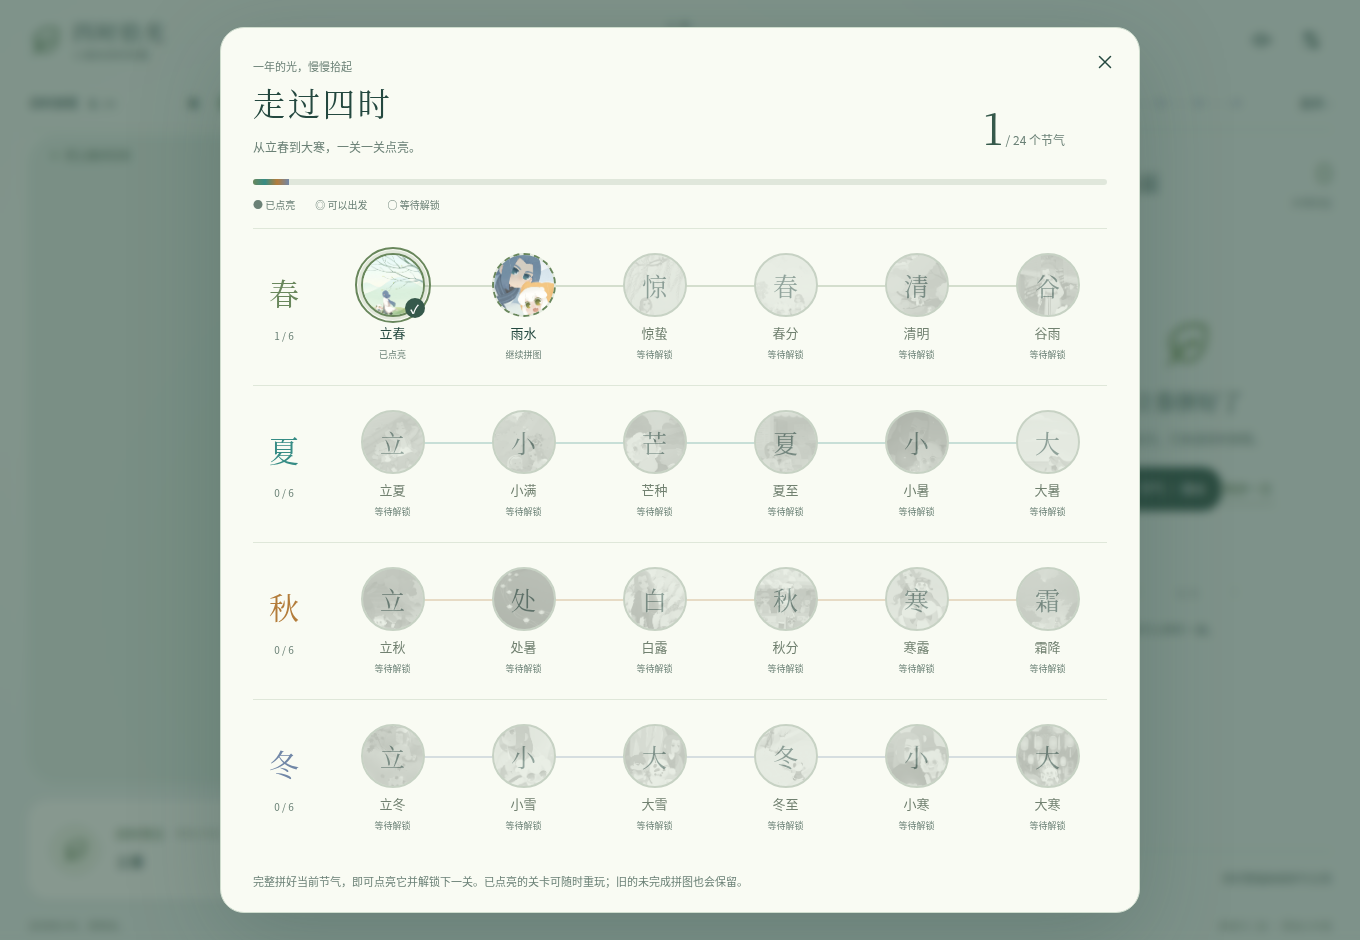
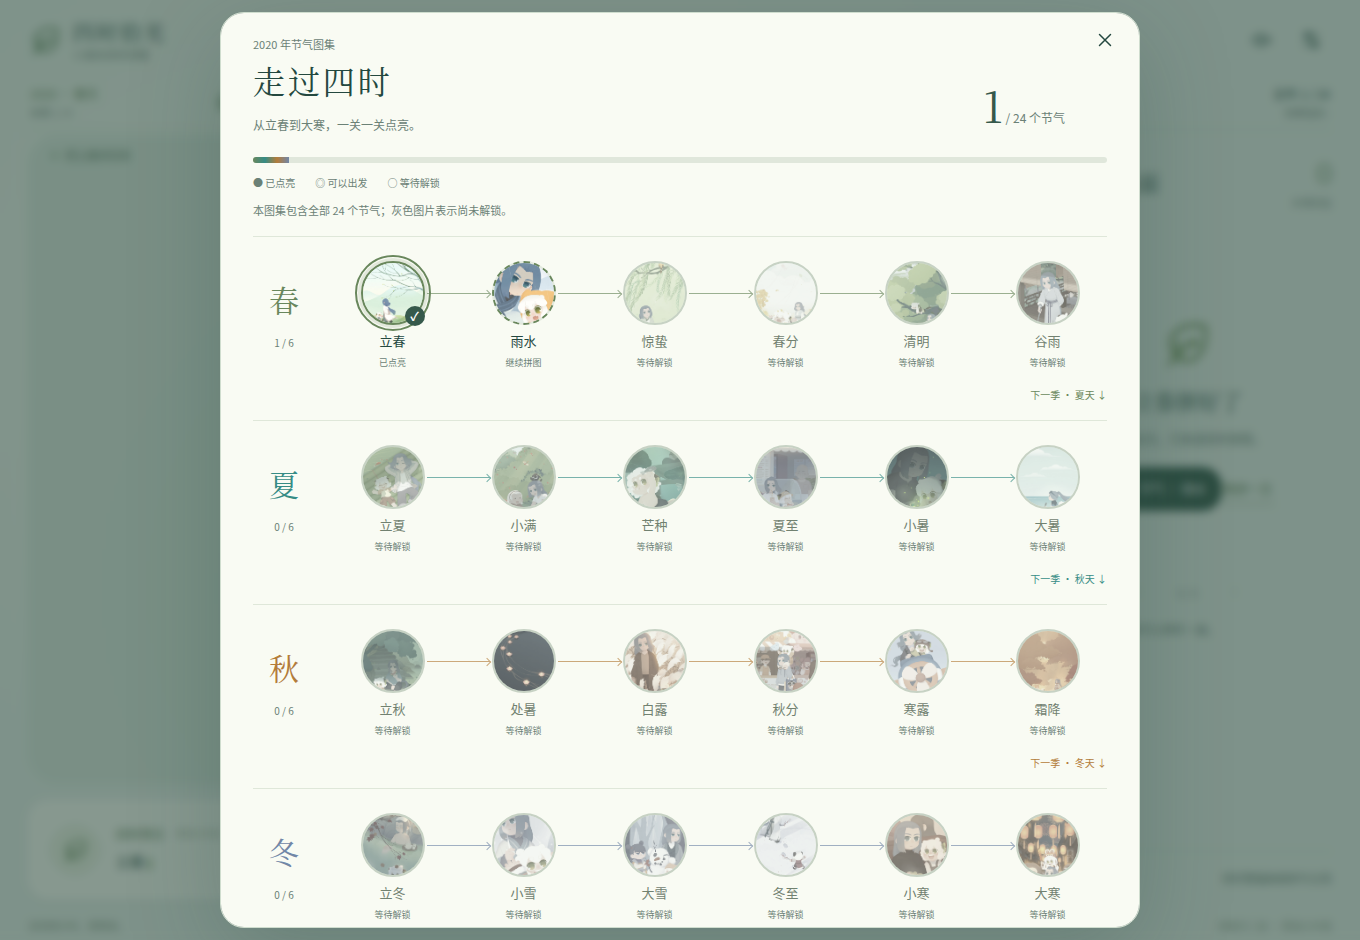
feat: clarify seasonal progress and add mobile journey arrows

diff --git a/web/src/style.css b/web/src/style.css
@@ -1542,20 +1542,17 @@ progress::-moz-progress-bar {
 .year-progress {
   width: calc(100% - 56px); max-width: 1440px; margin: 0 auto;
   min-height: 44px; padding: 4px 2px 8px; border: 0;
-  display: grid; grid-template-columns: 136px minmax(0,1fr) 52px; align-items: center; gap: 22px;
+  display: grid; grid-template-columns: 150px minmax(100px,280px) 1fr; align-items: center; gap: 24px;
   background: transparent; text-align: left; border-bottom: 1px solid #ccdbcc;
 }
-.year-progress-label { font-size: 12px; white-space: nowrap; }
-.year-progress-label strong { margin-left: 8px; font-weight: 600; }
-.year-progress-label small { color: var(--muted); font-weight: 400; }
-.year-segments { display: grid; grid-template-columns: repeat(4,minmax(0,1fr)); gap: 24px; }
-.year-segment { display: flex; align-items: center; gap: 10px; font-size: 11px; }
-.year-dots { flex: 1; display: grid; grid-template-columns: repeat(6,minmax(0,1fr)); align-items: center; position: relative; }
+.year-progress-label { font-size: 12px; color: var(--term-color); white-space: nowrap; }
+.year-progress-label small, .year-open small { display: block; font-size: 10px; color: var(--muted); margin-top: 3px; }
+.year-dots { display: grid; grid-template-columns: repeat(6,minmax(0,1fr)); align-items: center; position: relative; }
 .year-dots::before { content: ""; position: absolute; inset: 50% 6%; height: 1px; background: var(--term-color); opacity: .3; }
 .year-dots i { width: 8px; height: 8px; border: 1px solid var(--term-color); border-radius: 50%; justify-self: center; background: #e6eee7; z-index: 1; }
 .year-dots i.lit { background: var(--term-color); animation: term-light .5s ease-out; }
 .year-dots i.current { outline: 2px solid var(--term-color); outline-offset: 3px; }
-.year-open { justify-self: end; font-size: 12px; white-space: nowrap; }
+.year-open { justify-self: end; font-size: 12px; white-space: nowrap; text-align: right; }
 .choose-season-button {
   display: flex; align-items: center; justify-content: space-between; gap: 12px;
   width: 100%; min-height: 52px; padding: 8px 0; border: 0; border-bottom: 1px solid var(--line);
@@ -1582,19 +1579,23 @@ progress::-moz-progress-bar {
 .journey-progress::-webkit-progress-bar { background: #e0e7db; }
 .journey-progress::-webkit-progress-value { background: linear-gradient(90deg,#69875c,#368c85,#b37c3a,#7187a7); }
 .journey-progress::-moz-progress-bar { background: #69875c; }
+.journey-series-note { font-size: 11px; line-height: 1.7; color: var(--muted); margin: -5px 0 16px; }
 .journey-legend { display: flex; gap: 20px; color: var(--muted); font-size: 10px; margin-bottom: 16px; }
 .season-track { display: grid; grid-template-columns: 62px minmax(0,1fr); gap: 18px; padding: 18px 0; border-top: 1px solid #dfe7d9; }
 .season-track > header { align-self: center; text-align: center; }
 .season-track h3 { font: 30px "Noto Serif CJK SC",serif; color: var(--term-color); margin: 0 0 7px; }
 .season-track header span { font-size: 10px; color: var(--muted); }
-.term-track { display: grid; grid-template-columns: repeat(6,minmax(0,1fr)); gap: 12px; position: relative; }
-.term-track::before { content: ""; position: absolute; height: 2px; left: 7%; right: 7%; top: 38px; background: var(--term-color); opacity: .25; }
-.term-node { display: flex; flex-direction: column; align-items: center; gap: 6px; padding: 6px 0; border: 0; background: transparent; min-width: 0; min-height: 100px; z-index: 1; }
-.term-orb { width: 64px; height: 64px; border: 2px solid #c7d2c4; border-radius: 50%; background: #e2e9dd; position: relative; display: grid; place-items: center; }
-.term-orb > span { font: 25px "Noto Serif CJK SC",serif; opacity: .6; }
+.term-track { --orb: 64px; --track-gap: 12px; display: grid; grid-template-columns: repeat(6,minmax(0,1fr)); gap: var(--track-gap); position: relative; }
+.term-link { position: absolute; left: calc(50% + var(--orb) / 2 + 2px); top: calc(6px + var(--orb) / 2);
+  width: calc(100% + var(--track-gap) - var(--orb) - 4px); border-top: 1px solid var(--term-color); color: var(--term-color); opacity: .65; pointer-events: none; }
+.term-link::after { content: ""; position: absolute; width: 5px; height: 5px; right: 0; top: -3px; border-top: 1px solid; border-right: 1px solid; transform: rotate(45deg); }
+.season-next { grid-column: 2; text-align: right; font-size: 10px; color: var(--term-color); margin-top: -6px; }
+.term-node { display: flex; flex-direction: column; align-items: center; gap: 6px; padding: 6px 0; border: 0; background: transparent; min-width: 0; min-height: 100px; z-index: 1; position: relative; }
+.term-orb { width: var(--orb); height: var(--orb); border: 2px solid #c7d2c4; border-radius: 50%; background: #e2e9dd; position: relative; display: grid; place-items: center; }
+.term-image-missing { font-size: 9px; line-height: 1.5; max-width: 36px; color: #765e40; }
 .term-orb img { position: absolute; inset: 0; width: 100%; height: 100%; object-fit: cover; object-position: 50% 44%; border-radius: 50%; }
 .term-orb img[hidden] { display: none; }
-.term-node.is-locked .term-orb img { filter: grayscale(1); opacity: .24; }
+.term-node.is-locked .term-orb img { filter: saturate(.5); opacity: .65; }
 .term-node.is-locked strong { color: #718170; font-weight: 400; }
 .term-node.is-available .term-orb { border: 2px dashed var(--term-color); }
 .term-node.is-complete .term-orb { border-color: var(--term-color); box-shadow: 0 0 0 3px color-mix(in srgb,var(--term-color) 16%,transparent); }
@@ -1609,12 +1610,10 @@ progress::-moz-progress-bar {
 @keyframes term-light { 0% { box-shadow: 0 0 0 5px #b9cbb366; } 100% { box-shadow: 0 0 0 0 transparent; } }
 @media (max-width: 740px) {
   .game-shell { grid-template-rows: 60px 44px minmax(0,1fr) 22px; }
-  .year-progress { width: calc(100% - 28px); grid-template-columns: 62px minmax(0,1fr) 28px; gap: 8px; padding: 0 0 5px; }
-  .year-progress-label { font-size: 9px; }
-  .year-progress-label strong { margin-left: 0; display: block; font-size: 12px; }
-  .year-segments { gap: 8px; }
-  .year-segment { gap: 4px; font-size: 9px; }
-  .year-dots i { width: 5px; height: 5px; }
+  .year-progress { width: calc(100% - 28px); grid-template-columns: 78px minmax(70px,1fr) 76px; gap: 12px; padding: 0 0 5px; }
+  .year-progress-label { font-size: 10px; }
+  .year-progress-label small, .year-open small { font-size: 9px; }
+  .year-dots i { width: 6px; height: 6px; }
   .year-dots i.current { outline-width: 1px; outline-offset: 2px; }
   .year-open { font-size: 10px; }
   .season-journey { padding: 26px 20px 18px; }
@@ -1623,11 +1622,19 @@ progress::-moz-progress-bar {
   .journey-summary > div > span { font-size: 10px; }
   .journey-count strong { font-size: 32px; }
   .journey-count span { display: block; font-size: 10px; }
-  .season-track { grid-template-columns: 34px minmax(0,1fr); gap: 12px; }
-  .term-track { grid-template-columns: repeat(3,minmax(0,1fr)); gap: 14px 8px; }
-  .term-track::before { display: none; }
-  .term-orb { width: 52px; height: 52px; }
-  .term-node { min-height: 91px; }
+  .season-track { grid-template-columns: 28px minmax(0,1fr); gap: 10px; padding-right: 12px; }
+  .term-track { --orb: clamp(42px,13.4vw,52px); --track-gap: 12px;
+    grid-template-columns: repeat(3,minmax(0,1fr)); grid-auto-rows: 100px; gap: 24px var(--track-gap); }
+  .term-node { min-height: 100px; }
+  .term-node:nth-child(4) { grid-row: 2; grid-column: 3; }
+  .term-node:nth-child(5) { grid-row: 2; grid-column: 2; }
+  .term-node:nth-child(6) { grid-row: 2; grid-column: 1; }
+  .term-link-turn { width: calc((100% - var(--orb)) / 2 + 10px); height: 124px;
+    border: 1px solid; border-left: 0; border-radius: 0 10px 10px 0; }
+  .term-link-turn::after { left: 0; right: auto; top: auto; bottom: -3px; transform: rotate(-135deg); }
+  .term-link-back { left: auto; right: calc(50% + var(--orb) / 2 + 2px); }
+  .term-link-back::after { left: 0; right: auto; transform: rotate(-135deg); }
+  .season-next { text-align: left; }
   .season-track h3 { font-size: 27px; }
   .journey-legend { gap: 10px; font-size: 9px; }
   .tray-complete .next-term-button { display: inline-block; min-height: 36px; font-size: 11px; padding: 7px 12px; }

diff --git a/web/src/SeasonJourney.jsx b/web/src/SeasonJourney.jsx
@@ -1,51 +1,60 @@
-import React from "react";
+import React, { useState } from "react";
 import { seasons, solarTerms } from "./solarTerms.js";
 import { termStatus } from "./journeyModel.js";
 
 export function YearProgress({ journey, current, onOpen }) {
-  return <button className="year-progress" onClick={onOpen}
-    aria-label={`选择节气，已点亮 ${journey.completed.size} / 24`}>
-    <span className="year-progress-label">四时旅程 <strong>{journey.completed.size}<small> / 24</small></strong></span>
-    <span className="year-segments" aria-hidden="true">
-      {seasons.map((season) => <span className="year-segment" key={season.id} style={{ "--term-color": season.color }}>
-        <span>{season.name}</span><span className="year-dots">
-          {solarTerms.filter((term) => term.season === season.id).map((term) =>
-            <i key={term.id} className={`${journey.completed.has(term.id) ? "lit" : ""} ${current === term.id ? "current" : ""}`} />)}
-        </span>
-      </span>)}
+  const term = solarTerms.find((item) => item.id === current) ?? solarTerms[0];
+  const season = seasons.find((item) => item.id === term.season);
+  const terms = solarTerms.filter((item) => item.season === season.id);
+  const count = terms.filter((item) => journey.completed.has(item.id)).length;
+  return <button className="year-progress" onClick={onOpen} data-current-season={season.id}
+    style={{ "--term-color": season.color }}
+    aria-label={`选择节气，已点亮 ${journey.completed.size} / 24，${season.title} ${count} / 6`}>
+    <span className="year-progress-label">2020 · {season.title}<small>本季 {count} / 6</small></span>
+    <span className="year-dots" aria-hidden="true">
+      {terms.map((item) => <i key={item.id} title={item.title} data-progress-term={item.id}
+        className={`${journey.completed.has(item.id) ? "lit" : ""} ${current === item.id ? "current" : ""}`} />)}
     </span>
-    <span className="year-open" aria-hidden="true">选关 ›</span>
+    <span className="year-open">全年 {journey.completed.size} / 24<small>四季选关 ›</small></span>
   </button>;
+}
+
+function TermArtwork({ term }) {
+  const [failed, setFailed] = useState(false);
+  return failed ? <span className="term-image-missing">图片未载入</span> :
+    <img src={term.image} alt="" loading="lazy" onError={() => setFailed(true)} />;
 }
 
 export function SeasonJourney({ journey, current, onSelect, saveError }) {
   return <div className="season-journey">
     <div className="journey-summary">
-      <div><p>一年的光，慢慢拾起</p><h2 id="journey-title">走过四时</h2>
+      <div><p>2020 年节气图集</p><h2 id="journey-title">走过四时</h2>
         <span>从立春到大寒，一关一关点亮。</span></div>
       <div className="journey-count"><strong>{journey.completed.size}</strong><span> / 24 个节气</span></div>
     </div>
     <progress className="journey-progress" max="24" value={journey.completed.size} aria-label="节气旅程完成进度" />
     {saveError && <p className="journey-save-note" role="status">暂时无法保存旅程，仍可在本页继续游玩。</p>}
     <div className="journey-legend"><span>● 已点亮</span><span>◎ 可以出发</span><span>○ 等待解锁</span></div>
-    {seasons.map((season) => {
+    <p className="journey-series-note">本图集包含全部 24 个节气；灰色图片表示尚未解锁。</p>
+    {seasons.map((season, seasonIndex) => {
       const terms = solarTerms.filter((term) => term.season === season.id);
       return <section className="season-track" key={season.id} style={{ "--term-color": season.color }} aria-label={`${season.title}的六个节气`}>
         <header><h3>{season.name}</h3><span>{terms.filter((term) => journey.completed.has(term.id)).length} / 6</span></header>
         <div className="term-track">
-          {terms.map((term) => {
+          {terms.map((term, index) => {
             const status = termStatus(term.id, journey);
             return <button key={term.id} className={`term-node is-${status}`} disabled={status === "locked"}
               data-term={term.id} data-status={status} aria-current={term.id === current ? "step" : undefined}
               aria-label={`${term.title}，${status === "complete" ? "已点亮，可重玩" : status === "available" ? "可进入" : "未解锁"}`}
               onClick={() => onSelect(term.id)}>
-              <span className="term-orb"><span>{term.title[0]}</span>
-                <img src={term.image} alt="" loading="lazy" onError={(event) => { event.currentTarget.hidden = true; }} />
+              <span className="term-orb"><TermArtwork term={term} />
                 {status === "complete" && <b aria-hidden="true">✓</b>}</span>
+              {index < 5 && <span aria-hidden="true" className={`term-link ${index === 2 ? "term-link-turn" : index > 2 ? "term-link-back" : ""}`} />}
               <strong>{term.title}</strong><small>{status === "complete" ? "已点亮" : status === "available" ? "继续拼图" : "等待解锁"}</small>
             </button>;
           })}
         </div>
+        {seasonIndex < 3 && <span className="season-next" aria-hidden="true">下一季 · {seasons[seasonIndex + 1].title} ↓</span>}
       </section>;
     })}
     <p className="journey-footnote">完整拼好当前节气，即可点亮它并解锁下一关。已点亮的关卡可随时重玩；旧的未完成拼图也会保留。</p>

diff --git a/docs/SOLAR_JOURNEY.md b/docs/SOLAR_JOURNEY.md
@@ -1,6 +1,6 @@
 # 四时旅程：二十四节气逐个点亮
 
-首次游玩从立春出发。游戏顶部常驻四季进度条；点击「选关」或在设置里选择节气，可以打开四季路线图。春绿、夏青、秋金、冬蓝，每季六个节气，按节气顺序从立春走到大寒。
+首次游玩从立春出发。拼图页顶部只显示当前季节的六个节点、本季点亮数与全年总数；完整四季仅在选关地图展示。点击顶部「四季选关」或在设置里选择节气，可以打开四季路线图。春绿、夏青、秋金、冬蓝，每季六个节气，按节气顺序从立春走到大寒。
 
 | 状态 | 行为 |
 |---|---|
@@ -11,6 +11,21 @@
 
 任一片数、形状或拼板提示模式下完整完成一张图即可点亮该节气。原来的雨水、春分、谷雨区域剧情保留；其余二十一个节气本轮提供拼图与简短开场、通关文字，尚未逐图标注角色区域剧情。
 
+## 手机路线与当前季节
+
+桌面六个节点从左到右连接；手机采用三列折返，DOM 和键盘顺序仍为真实节气顺序：
+
+```text
+立春 → 雨水 → 惊蛰
+               ↓（右侧折返线）
+谷雨 ← 清明 ← 春分
+↓ 下一季：夏天
+```
+
+箭头不经过节点文字。未解锁的缩略图保留可辨认的画面，状态文字说明「等待解锁」。实际图片请求失败则显示「图片未载入」，与锁定状态区分；不会仅留下一个看似空白的圆圈。
+
+拼图页随当前关卡切换季节，例如进入立夏只显示夏季六个节点，本季 0/6、全年 6/24；不会继续摆出其他三个季节的圆圈。地图与拼图页均明确标记 2020 年。
+
 ## 素材与来源
 
 使用现有本地收藏的 2020 年同系列，每个节气选一张，不混入标题带「二」的另一版。二十四张图片均按收藏目录的 SHA-256 实际核验；没有修改原始字节、覆盖原图或重新下载。
@@ -18,6 +33,21 @@
 `web/src/solarTerms.js` 保留每张图的原始目录相对路径、素材编号、SHA-256、尺寸和第三方收录页。原作权利仍属于原权利人，第三方目录的收录不等于逐张核实了官方首发，也不代表获得正式再分发许可。保留既有三张已入库试玩图，其余二十一张准备到忽略的 `web/public/art/solar/`，不随功能提交上传收藏。
 
 节气顺序参考 [香港天文台二十四节气](https://www.hko.gov.hk/sc/gts/time/24solarterms.htm)；四季分组为立春至谷雨、立夏至大暑、立秋至霜降、立冬至大寒，各六个节气，可参见 [香港教育局廿四节气表象图](https://www.edb.gov.hk/attachment/tc/curriculum-development/kla/pshe/references-and-resources/ethics-and-religious-studies/Nan_Lian_Garden/data7.pdf)。这是季节循环的关卡顺序，不硬编码节气的公历日期。
+
+### 其他年份
+
+本地收藏目录及实际文件的核验结果如下。这里的「完整」指目录中该年份的标准版二十四节气均已保存且 SHA-256 匹配，不等于逐张核实了官方首发。
+
+| 年份 | 标准版节气图 | 本次接入 |
+|---|---|---|
+| 2020 | 24/24 | 是，当前图集 |
+| 2021 | 24/24 | 否 |
+| 2022 | 24/24 | 否 |
+| 2023 | 24/24 | 否 |
+| 2024 | 24/24，另有诗词版本 | 否 |
+| 2025 | 24/24 | 否 |
+
+这次地图中的灰色节点并非当年没有发布图片：2020 年所选二十四张全部存在。后续接入其他年份应提供年份选择和独立存档，不能直接替换 2020 图片、复用当前节气 ID 覆盖旧进度。本次没有接入年份切换或声称所有年份都有完整官方目录。
 
 ## 准备和试玩
 
@@ -66,17 +96,23 @@ npm run test:journey-browser
 | Chromium 桌面 1360×940 | 真实键盘输入从立春连续完成二十四关，逐关点亮和下一关跳转，最终刷新恢复 24/24 |
 | Chromium 手机网页 | 390×844、375×667、320×568，触屏拖动、点按完成首关、下一关可进入、刷新恢复、无横向溢出，画板与碎片栏位于屏幕内 |
 | 边界 | 旧三张图存档实际读回；图片加载失败时不能通关；存储受阻提示并保留当前会话可玩 |
+| 既有功能回归 | 配音原生 MP3 四尺寸、纸板四尺寸及减少动态、既有三图剧情/参考/磁吸/音效调度检查通过；旧测试使用明确存档场景并改走新版选关入口 |
 | 本地素材 | 二十四张准备后的图片全部匹配已有目录 SHA-256；浏览器检查没有外部网络请求 |
 
 连续键盘通关时还修正了旧的延迟自动聚焦：用户已经转移焦点时，不再把焦点抢回碎片栏。320×568 小屏单独压缩了旁白与碎片区，降低画板最小高度，避免新增进度条挤掉底排目标。对应路径在修改前复现失败，修复后通过，没有通过额外测试等待掩盖。
 
-完整桌面通关与 390/375px 手机检查后，对小屏修复做了针对性的 320px 复查；这两次运行的范围分别记录。未在实体手机、Safari、Firefox 验证；本轮没有重跑所有片数/形状组合的完整二十四关。未合并 PR 或部署。
+本次冲突解决与界面调整后，已重新完整运行桌面二十四关和三种手机尺寸；另外检查了手机折返节点坐标与可见连线、二十四张缩略图真实载入、当前季节仅六个节点、夏季独立计数及缺图提示。夏季手机截图使用已完成春季的存档场景，不代表本次在手机完整通关四季。未在实体手机、Safari、Firefox 验证；本轮没有重跑所有片数/形状组合的完整二十四关。未合并 PR 或部署。
 
 ## 实测截图
 
+PR 描述直接嵌入以下九张，不要求先点开本文：
+
 ![桌面四季路线](screenshots/solar-journey/desktop-journey.png)
-
+![桌面春季拼图页](screenshots/solar-journey/desktop-game-spring.png)
+![桌面夏季拼图页](screenshots/solar-journey/desktop-game-summer.png)
 ![桌面二十四节气全部点亮](screenshots/solar-journey/desktop-year-complete.png)
-
-<img src="screenshots/solar-journey/mobile-journey.png" width="320" alt="手机四季路线图">
-<img src="screenshots/solar-journey/mobile-narrow-first-light.png" width="280" alt="320px 小屏首关点亮与下一节气按钮">
+<img src="screenshots/solar-journey/mobile-journey.png" width="320" alt="手机春夏折返路线">
+<img src="screenshots/solar-journey/mobile-journey-winter.png" width="320" alt="手机秋冬折返路线">
+<img src="screenshots/solar-journey/mobile-game-spring.png" width="320" alt="手机春季拼图页">
+<img src="screenshots/solar-journey/mobile-game-summer.png" width="320" alt="手机夏季拼图页，全年6/24，本季0/6">
+<img src="screenshots/solar-journey/mobile-narrow-first-light.png" width="280" alt="320px小屏首关点亮">

diff --git a/AGENTS.md b/AGENTS.md
@@ -3,6 +3,7 @@
 - Use Chinese for explanations and PR descriptions unless asked otherwise.
 - Implement one coherent feature per branch and pull request. Target `main`; use `feat/`, `fix/`, or `docs/` branch prefixes.
 - Include the observable behavior, validation performed, and material limitations in each PR description. Distinguish DOM/model tests from real-browser checks.
+- For UI changes, embed screenshots of desktop and mobile views and the main states directly in the PR description. Include route details, gameplay, and progress changes where relevant; do not limit the description to two screenshots and send the reviewer to another document for the rest.
 - Prepare a PR after every feature. Include the desktop web experience and the mobile experience in the implementation, screenshots, and acceptance checks.
 - If remote PR creation is blocked, leave a verified feature commit bundle, PR body, and a ready-to-run desktop command that pushes the branch and creates the PR.
 - Open the PR for the user to review. Do not merge it, enable auto-merge, or push directly to `main` without explicit instructions.
